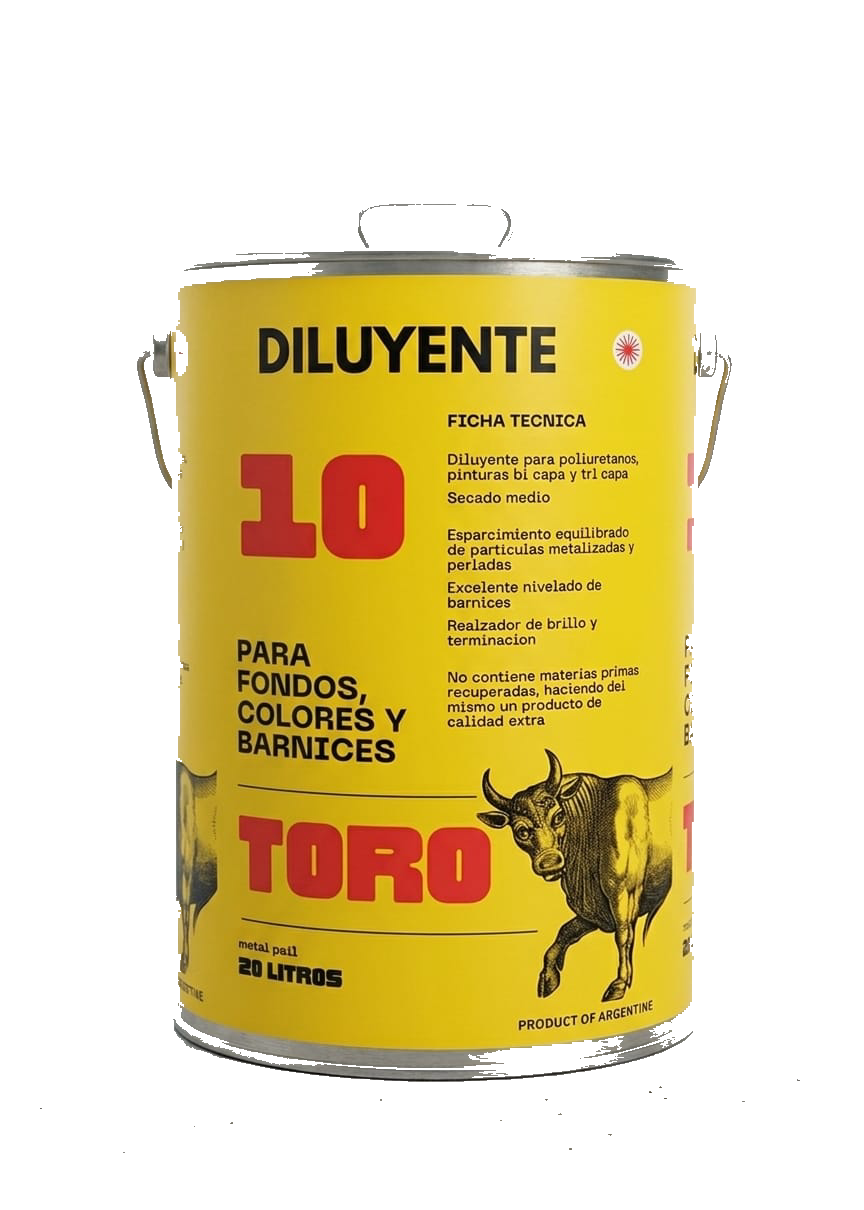
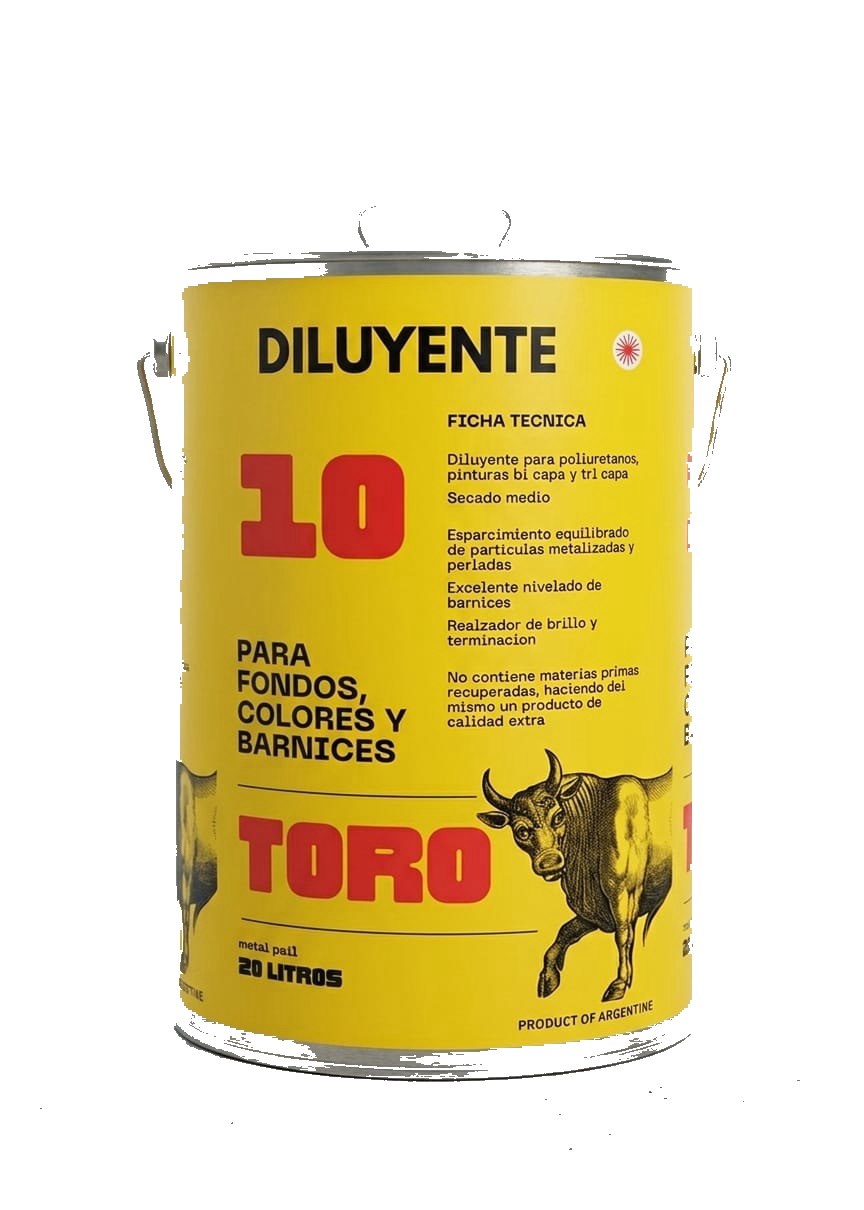
Usar B320 transparent para Sprint hero y diluyente mejorado para Toro

diff --git a/app/page.tsx b/app/page.tsx
@@ -139,7 +139,7 @@ export default function Home() {
             </motion.div>
             <motion.div className="flex-1 flex items-center justify-center order-1 md:order-2"
               variants={fadeRight} initial="hidden" whileInView="show" viewport={{ once: true }}>
-              <img src="/sprint/h69-transparent.png"
+              <img src="/sprint/sprint-hero-transparent.png"
                 alt="Línea Sprint"
                 className="w-52 md:w-72 object-contain drop-shadow-2xl" />
             </motion.div>